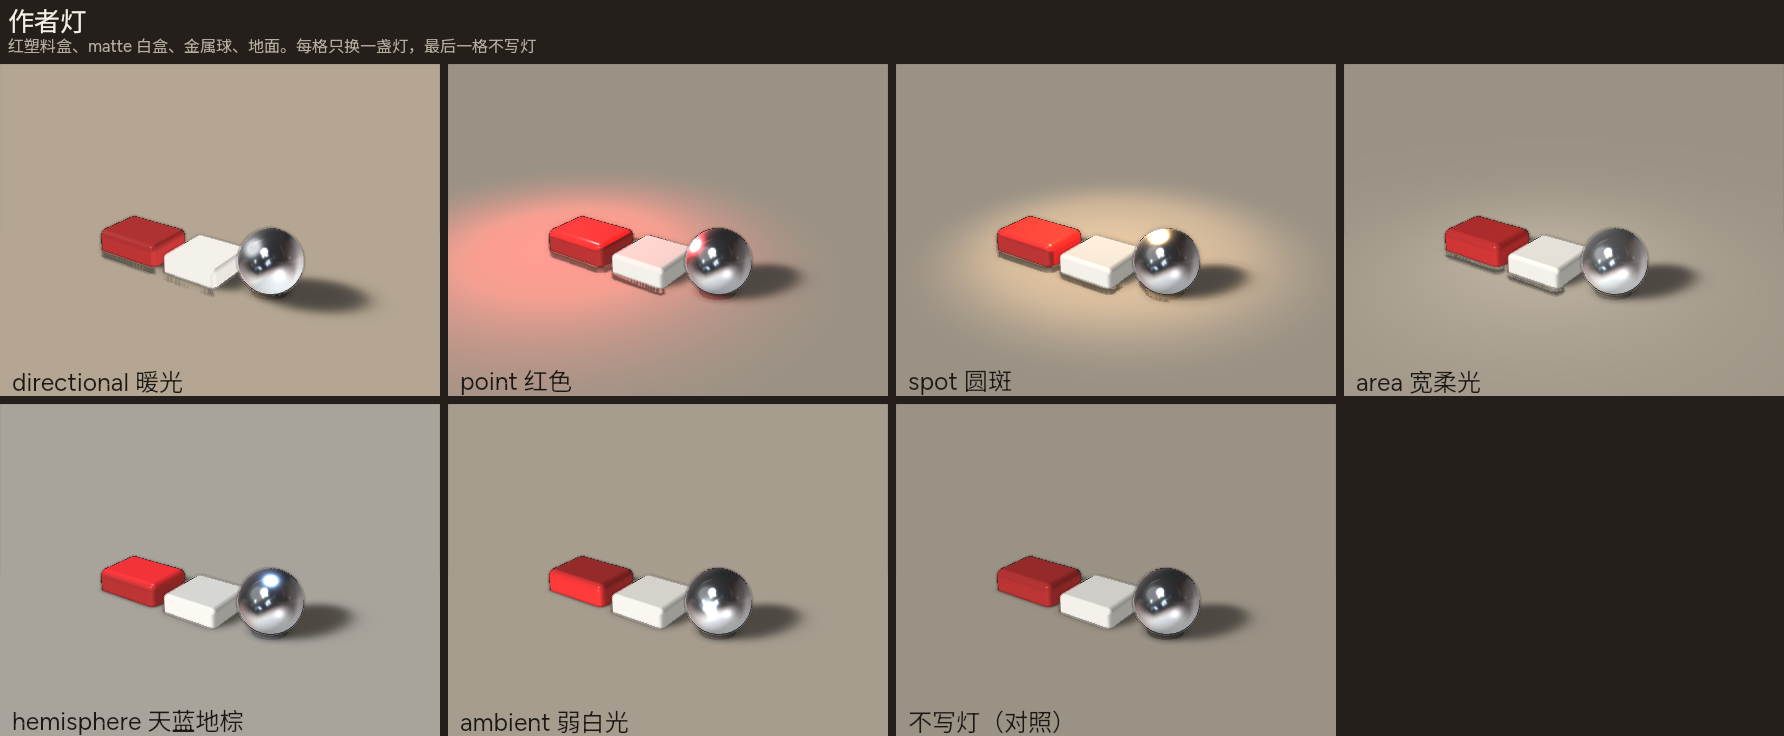
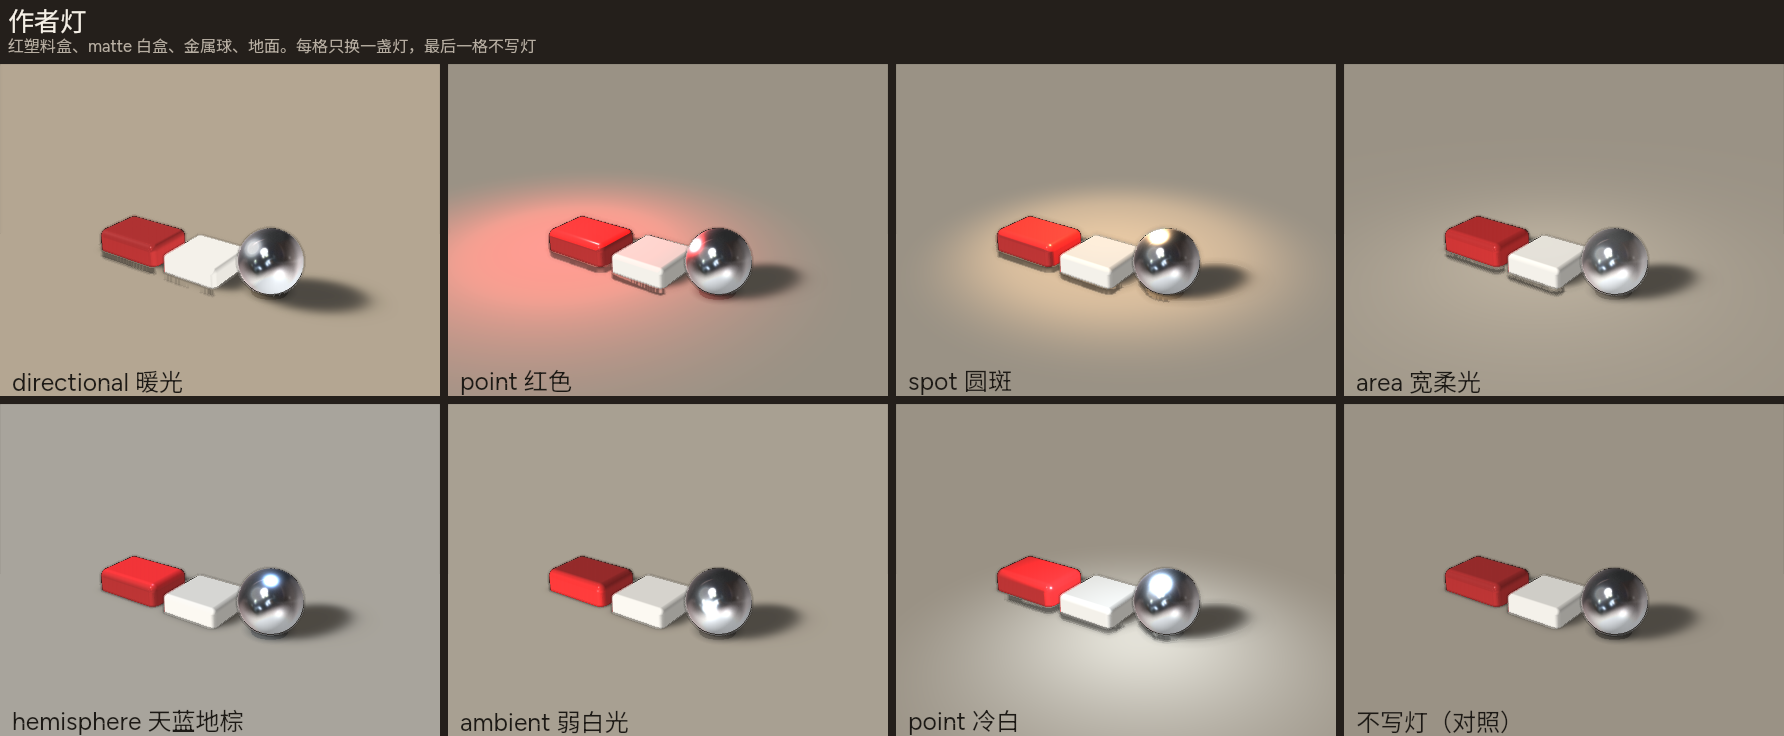
QUALITY-6 metfix: Standard metal + lights grid fill
Cooler Standard metal, clearer physical-glass; 8th lights cell; ambient 0.62.

Changed region(s): [[0.4933, 0.5312, 1.0, 1.0]]

diff --git a/docs/gallery/3d/model/standard-metal.tsx b/docs/gallery/3d/model/standard-metal.tsx
@@ -4,37 +4,37 @@ import * as THREE from 'three'
 
 // QUALITY-6 §E.2 cell 1: MeshStandardMaterial, metalness 1.
 // SPEC maps metalness ≥ 0.5 to `metal`. Keep Standard (not Physical).
-// Silvercube: darkcube A scored model 5 as flat orange because final BVH
-// without SSR washed the lid. Engine now keeps draft SSR under final; use
-// quality=final + cream/blue lamps (no orange flood) on the seampale bench.
+// Metfix: boxyaw A model 6.8 / B flat-white Standard — cooler mid silver,
+// less lamp blow, mild yaw so bounce cards read in the mirror.
 const mesh = new THREE.Mesh(
   new THREE.BoxGeometry(1, 1, 1),
-  new THREE.MeshStandardMaterial({ color: '#e0e6ee', metalness: 1, roughness: 0.02 }),
+  new THREE.MeshStandardMaterial({ color: '#c5ced8', metalness: 1, roughness: 0.02 }),
 )
-mesh.rotation.y = 0.22
+mesh.rotation.y = 0.38
+mesh.rotation.x = -0.08
 
 export default layer.create(
   <layer width={440} height={300} background="#241f1b">
     <layer
       width={440}
       height={300}
-      camera="fov 34, orbit 38 26, distance 860, at 220 200 0"
+      camera="fov 34, orbit 38 24, distance 880, at 220 198 0"
       light="world"
       quality="final"
     >
-      <light type="hemisphere" intensity="0.45" color="#e8eef4" ground-color="#3a4048" />
-      <light type="directional" intensity="0.9" color="#ffffff" x="-180" y="-420" z="520" target="0 0 0" />
-      <light type="point" intensity="2.6" color="#ffffff" x="300" y="40" z="220" distance="700" />
-      <light type="point" intensity="2.2" color="#8ec8ff" x="-120" y="60" z="180" distance="500" />
+      <light type="hemisphere" intensity="0.38" color="#e8eef4" ground-color="#2e343c" />
+      <light type="directional" intensity="0.75" color="#ffffff" x="-180" y="-420" z="520" target="0 0 0" />
+      <light type="point" intensity="2.0" color="#ffffff" x="300" y="40" z="220" distance="700" />
+      <light type="point" intensity="1.8" color="#8ec8ff" x="-120" y="60" z="180" distance="500" />
       <ground y={220} rotateX={90} fill="#2a3038" shadow-blur={52} shadow-opacity={0.34} />
-      <sphere cx="95" cy="130" r="36" z="90" fill="#f0ebe4" material="lamp" />
-      <sphere cx="340" cy="125" r="32" z="85" fill="#5aa8ff" material="lamp" />
+      <sphere cx="95" cy="130" r="32" z="90" fill="#efe8e0" material="lamp" />
+      <sphere cx="340" cy="125" r="28" z="85" fill="#5aa8ff" material="lamp" />
       <layer x={28} y={220} width={400} height={190} origin="200 0" rotateX={90} preserve-3d>
         <rect x="-10" y="-80" width="420" height="12" depth="260" fill="#1a1e24" />
-        <rect x="250" y="-45" width="140" height="12" depth="180" fill="#e87838" />
+        <rect x="250" y="-45" width="140" height="12" depth="180" fill="#c87848" />
         <rect x="30" y="-30" width="100" height="10" depth="160" fill="#4a8fd0" />
-        <rect x="80" y="-55" width="160" height="8" depth="200" fill="#fff4ea" />
-        <model object={mesh} unit={128} x={200} y={190} material="finish metal, color #d8e0e8, roughness 0.03, metalness 1" />
+        <rect x="80" y="-55" width="160" height="8" depth="200" fill="#f0ebe4" />
+        <model object={mesh} unit={118} x={200} y={188} material="finish metal, color #b8c4d0, roughness 0.02, metalness 1" />
       </layer>
     </layer>
     <layer x={12} y={272}>

diff --git a/docs/gallery/3d/model/physical-glass.tsx b/docs/gallery/3d/model/physical-glass.tsx
@@ -2,22 +2,23 @@
 import { layer } from 'flexlayer'
 import * as THREE from 'three'
 
-// Seampale: seamallow A called transmission sphere murky/solid — clearer glass.
+// Metfix: boxyaw A called a harsh opaque lower wedge on the transmission
+// sphere — thinner clearer shell, lift off the stripe card a touch.
 const glass = new THREE.Mesh(
   new THREE.SphereGeometry(0.55, 48, 32),
   new THREE.MeshPhysicalMaterial({
-    color: '#f5fffb',
+    color: '#f8fffc',
     transmission: 1,
     roughness: 0,
-    ior: 1.45,
+    ior: 1.4,
     metalness: 0,
-    thickness: 0.55,
-    attenuationColor: '#e8f6f0',
-    attenuationDistance: 1.2,
+    thickness: 0.35,
+    attenuationColor: '#f2faf6',
+    attenuationDistance: 2.0,
   }),
 )
 // Keep glassread seat — mintbars 0.45 overflowed canvas again.
-glass.position.set(0, 0.48, 0.35)
+glass.position.set(0, 0.55, 0.42)
 function stripe(color: string, x: number) {
   const mesh = new THREE.Mesh(
     new THREE.BoxGeometry(0.26, 1.25, 0.1),
@@ -41,7 +42,7 @@ export default layer.create(
         <model object={stripe('#d94a3a', -0.4)} unit={110} x={200} y={190} />
         <model object={stripe('#f4f0e8', -0.1)} unit={110} x={200} y={190} />
         <model object={stripe('#3a7ec8', 0.2)} unit={110} x={200} y={190} />
-        <model object={glass} unit={160} x={200} y={190} material="glass 0.04" />
+        <model object={glass} unit={155} x={200} y={190} material="glass 0.03" />
       </layer>
     </layer>
     <layer x={12} y={272}>

diff --git a/scripts/gallery-3d.ts b/scripts/gallery-3d.ts
@@ -303,7 +303,13 @@ function lightsPlate(): { label: string; body: string }[] {
     },
     {
       label: 'ambient 弱白光',
-      body: lightScene('<light type="ambient" intensity="0.5" color="#ffffff" />'),
+      // Metfix: above 0.5 so ambient ≠ no-light; stay under overexposureMax 0.005.
+      body: lightScene('<light type="ambient" intensity="0.62" color="#ffffff" />'),
+    },
+    {
+      // Fill the 4×2 grid — empty bottom-right read as unfinished (boxyaw A lights 6.8).
+      label: 'point 冷白',
+      body: lightScene('<light type="point" x="340" y="50" z="120" intensity="10" distance="420" color="#b8d8ff" />'),
     },
     {
       label: '不写灯（对照）',
